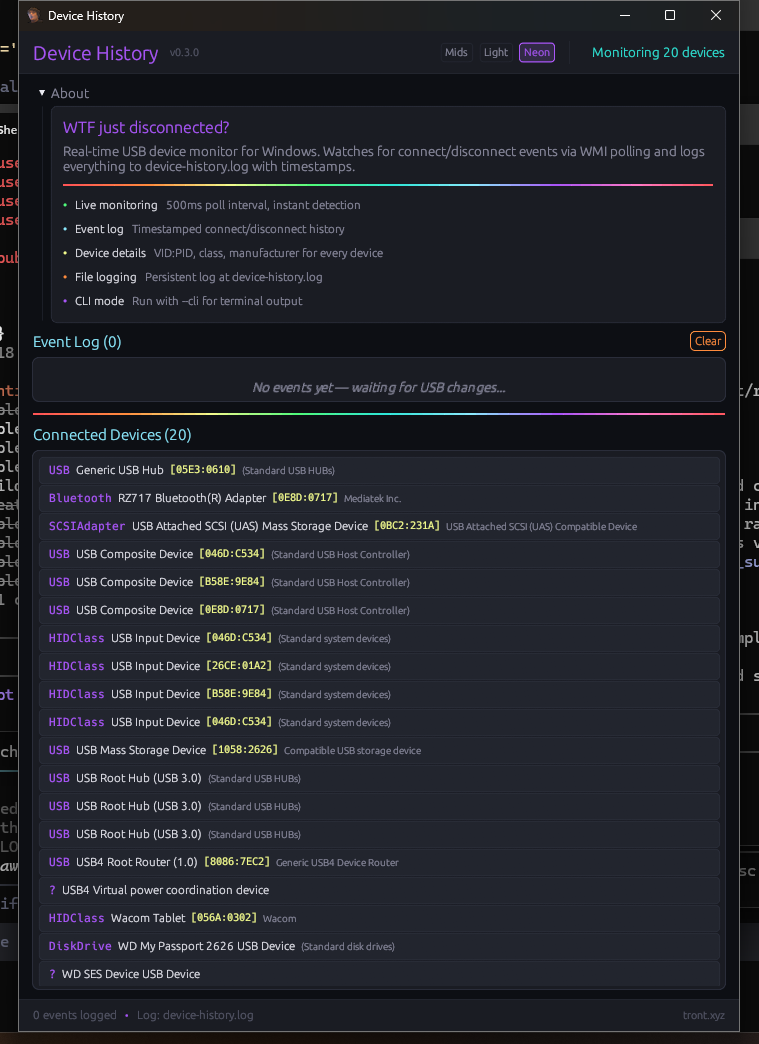
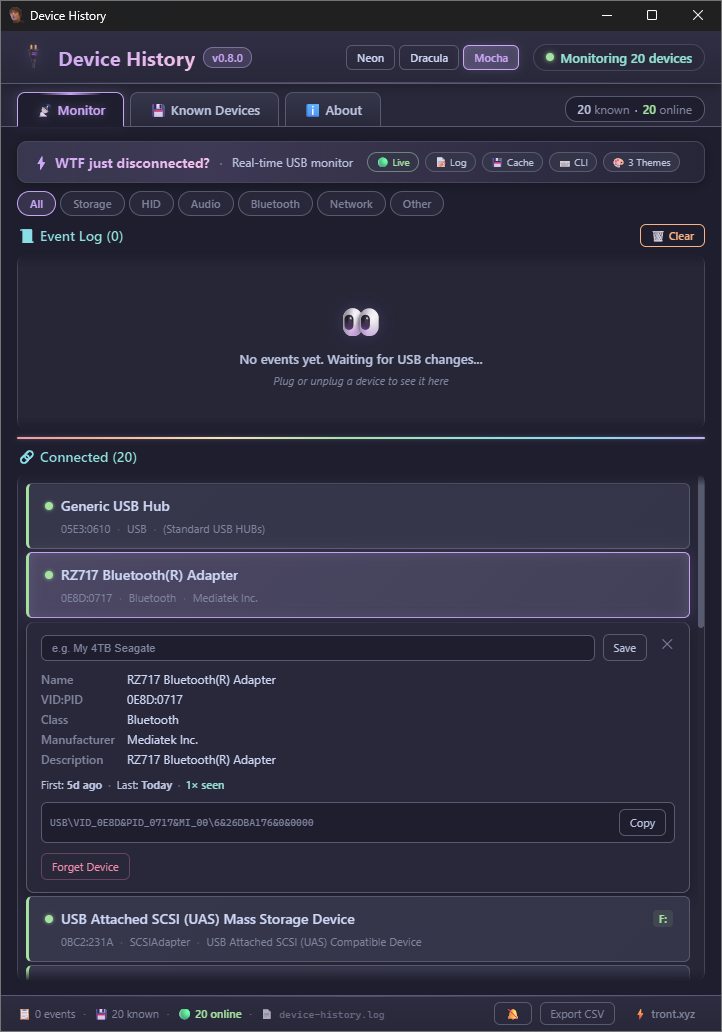
device-history: update landing page for v0.8.2
- Bump all version refs to v0.8.2
- Add 3 screenshots (monitor, known devices, about)
- Add feature cards (storage, CSV, sound, keyboard shortcuts, portable)
- Update tech chips (Tauri v2, Svelte 5, TypeScript, Vite)
- Update theme names (Neon/Dracula/Catppuccin Mocha)
- Update install instructions to npm/tauri

diff --git a/device-history/index.html b/device-history/index.html
@@ -12,16 +12,16 @@
     <meta charset="UTF-8">
     <meta name="viewport" content="width=device-width, initial-scale=1.0">
     <title>Device History - WTF Just Disconnected?</title>
-    <meta name="description" content="Real-time USB device monitor for Windows. Premium glassmorphism UI with 5 themes, animated capacity bars, device database, and CLI mode. Built with Rust + Tauri v2 + Svelte 5.">
+    <meta name="description" content="Real-time USB device monitor for Windows. Premium glassmorphism UI with 3 themes, animated capacity bars, device database, and CLI mode. Built with Rust + Tauri v2 + Svelte 5.">
     <meta property="og:type" content="website">
     <meta property="og:title" content="Device History - WTF Just Disconnected?">
-    <meta property="og:description" content="Real-time USB device monitor for Windows. Premium glassmorphism UI with 5 themes, animated capacity bars, device database, and CLI mode. Built with Rust + Tauri v2 + Svelte 5.">
+    <meta property="og:description" content="Real-time USB device monitor for Windows. Premium glassmorphism UI with 3 themes, animated capacity bars, device database, and CLI mode. Built with Rust + Tauri v2 + Svelte 5.">
     <meta property="og:url" content="https://tront.xyz/device-history/">
     <meta property="og:site_name" content="Device History">
     <meta property="og:image" content="https://tront.xyz/device-history/screenshot.png">
     <meta name="twitter:card" content="summary_large_image">
     <meta name="twitter:title" content="Device History - WTF Just Disconnected?">
-    <meta name="twitter:description" content="Real-time USB device monitor for Windows. Premium glassmorphism UI with 5 themes, animated capacity bars, device database, and CLI mode. Built with Rust + Tauri v2 + Svelte 5.">
+    <meta name="twitter:description" content="Real-time USB device monitor for Windows. Premium glassmorphism UI with 3 themes, animated capacity bars, device database, and CLI mode. Built with Rust + Tauri v2 + Svelte 5.">
     <meta name="twitter:image" content="https://tront.xyz/device-history/screenshot.png">
     <script type="application/ld+json">{"@context":"https://schema.org","@type":"SoftwareApplication","name":"Device History","description":"Real-time USB device monitor for Windows with neon-themed GUI. Detects connect/disconnect events via WMI polling and logs everything.","url":"https://tront.xyz/device-history/","applicationCategory":"UtilitiesApplication","operatingSystem":"Windows","author":{"@type":"Person","name":"Trent Sterling","url":"https://tront.xyz"}}</script>
     <link rel="icon" href="/favicon.png" type="image/png">
@@ -334,27 +334,34 @@
     <section class="hero">
         <h1>Device History</h1>
         <p class="tagline">WTF just disconnected? Real-time USB device monitor for Windows with a neon-themed GUI, event logging, and CLI mode.</p>
-        <span class="version-tag">v0.8.0 &mdash; Tauri v2 + Svelte 5 rewrite</span>
+        <span class="version-tag">v0.8.2 - Tauri v2 + Svelte 5 rewrite</span>
         <div class="buttons">
-            <a href="https://github.com/TrentSterling/device-history/releases/download/v0.8.0/Device-History-0.8.0-setup.exe" class="btn btn-primary" style="background:rgba(168,85,247,0.15);border-color:rgba(168,85,247,0.4);color:#d4b0ff;font-size:1.05rem;">&#11015; Download Installer (2.4MB)</a>
-            <a href="https://github.com/TrentSterling/device-history/releases/download/v0.8.0/device-history.exe" class="btn btn-primary">&#11015; Portable .exe</a>
+            <a href="https://github.com/TrentSterling/device-history/releases/download/v0.8.2/device-history.exe" class="btn btn-primary" style="background:rgba(168,85,247,0.15);border-color:rgba(168,85,247,0.4);color:#d4b0ff;font-size:1.05rem;">&#11015; Download Portable .exe</a>
             <a href="https://github.com/TrentSterling/device-history" class="btn btn-primary">GitHub</a>
             <a href="/blog/posts/device-history/" class="btn btn-primary">Blog Post</a>
         </div>
-        <p style="margin-top:12px;color:var(--text-dim);font-size:0.85rem;">Complete Tauri v2 + Svelte 5 rewrite. Glassmorphism UI, 5 themes, full emoji support.</p>
+        <p style="margin-top:12px;color:var(--text-dim);font-size:0.85rem;">Complete Tauri v2 + Svelte 5 rewrite. Glassmorphism UI, 3 themes, full emoji support.</p>
     </section>
 
-    <!-- SCREENSHOT -->
+    <!-- SCREENSHOTS -->
     <div class="screenshot-frame" onclick="openLightbox(this.querySelector('img'))">
-        <img src="screenshot.png" alt="Device History v0.8.0 - Glassmorphism USB monitor with 5 themes">
+        <img src="screenshot.png" alt="Device History v0.8.2 - Monitor tab with live device tracking">
+    </div>
+    <div style="display:grid;grid-template-columns:1fr 1fr;gap:16px;max-width:720px;margin:0 auto 32px;">
+        <div class="screenshot-frame" style="margin:0;" onclick="openLightbox(this.querySelector('img'))">
+            <img src="screenshot-known.png" alt="Device History - Known Devices tab with storage info">
+        </div>
+        <div class="screenshot-frame" style="margin:0;" onclick="openLightbox(this.querySelector('img'))">
+            <img src="screenshot-about.png" alt="Device History - About page">
+        </div>
     </div>
 
     <!-- STATS -->
     <div class="stats-bar">
         <div class="stat"><span class="num">500ms</span><span class="lbl">Poll Rate</span></div>
-        <div class="stat"><span class="num">5</span><span class="lbl">Themes</span></div>
-        <div class="stat"><span class="num">2.4MB</span><span class="lbl">Installer</span></div>
-        <div class="stat"><span class="num">v0.8.0</span><span class="lbl">Version</span></div>
+        <div class="stat"><span class="num">3</span><span class="lbl">Themes</span></div>
+        <div class="stat"><span class="num">~7MB</span><span class="lbl">Binary Size</span></div>
+        <div class="stat"><span class="num">v0.8.2</span><span class="lbl">Version</span></div>
     </div>
 
     <!-- FEATURES -->
@@ -371,8 +378,8 @@
                 <p>Color-coded cards with left accent bars. Green for connect, red for disconnect. Timestamp, device name, VID:PID, class, manufacturer.</p>
             </div>
             <div class="feature-card">
-                <h3>5 Premium Themes</h3>
-                <p>Neon, Catppuccin Mocha, Dracula, Nord, and Solarized Dark. Smooth 300ms transition between them. Glassmorphism panels with backdrop blur.</p>
+                <h3>3 Premium Themes</h3>
+                <p>Neon, Dracula, and Catppuccin Mocha. Smooth 300ms transitions. Glassmorphism panels with backdrop blur.</p>
             </div>
             <div class="feature-card">
                 <h3>Known Devices Database</h3>
@@ -407,8 +414,28 @@
                 <p>Filter devices and events by name, ID, or class. Sort by any column. Find what you're looking for in a list of 50+ USB devices.</p>
             </div>
             <div class="feature-card">
+                <h3>Storage Details</h3>
+                <p>Capacity bars, drive letters, volume names, model, serial number, firmware version, and interface type for every disk drive. See exactly how full your drives are.</p>
+            </div>
+            <div class="feature-card">
+                <h3>CSV Export</h3>
+                <p>Export your entire event log as a CSV file. Useful for tracking patterns, sharing with IT, or feeding into other tools.</p>
+            </div>
+            <div class="feature-card">
+                <h3>Sound Notifications</h3>
+                <p>Optional audio beep on connect/disconnect events. Hear what's happening even when the window is minimized to tray.</p>
+            </div>
+            <div class="feature-card">
                 <h3>Update Checker</h3>
                 <p>Silently checks GitHub for new releases on startup. If a newer version exists, a clickable banner appears in the header.</p>
+            </div>
+            <div class="feature-card">
+                <h3>Keyboard Shortcuts</h3>
+                <p>Escape to close detail panels, 1/2/3 to switch between Monitor, Known Devices, and About tabs. Fast navigation without the mouse.</p>
+            </div>
+            <div class="feature-card">
+                <h3>Portable</h3>
+                <p>Single .exe, ~7 MB. No installer, no setup, no runtime dependencies. Download it, run it, done. Runs on any modern Windows machine.</p>
             </div>
         </div>
     </section>
@@ -441,30 +468,26 @@
             <span class="chip">Rust</span>
             <span class="chip">Tauri v2</span>
             <span class="chip">Svelte 5</span>
+            <span class="chip">TypeScript</span>
+            <span class="chip">Vite</span>
             <span class="chip">WMI</span>
-            <span class="chip">CSS Glassmorphism</span>
-            <span class="chip">parking_lot</span>
+            <span class="chip">Glassmorphism</span>
         </div>
     </section>
 
     <!-- INSTALL -->
     <section class="section" id="install">
         <h2>Download &amp; Install</h2>
-        <div class="install-options" style="grid-template-columns:1fr 1fr 1fr;">
+        <div class="install-options" style="grid-template-columns:1fr 1fr;">
             <div class="install-card" style="border-color:rgba(168,85,247,0.3);">
                 <h3 style="color:var(--accent);">Download .exe</h3>
-                <a href="https://github.com/TrentSterling/device-history/releases/download/v0.8.0/Device-History-0.8.0-setup.exe" class="btn btn-primary" style="display:block;text-align:center;background:rgba(168,85,247,0.1);border-color:rgba(168,85,247,0.3);color:#d4b0ff;margin-bottom:4px;">&#11015; Installer (2.4 MB)</a>
-                <p>2.4 MB NSIS installer. Also available: <a href="https://github.com/TrentSterling/device-history/releases/download/v0.8.0/device-history.exe">Portable .exe (6.2 MB)</a> or <a href="https://github.com/TrentSterling/device-history/releases/download/v0.8.0/Device-History-0.8.0.msi">MSI (3.3 MB)</a></p>
-            </div>
-            <div class="install-card">
-                <h3>cargo install</h3>
-                <code>cargo install --git https://github.com/TrentSterling/device-history</code>
-                <p>Requires Rust toolchain. Builds from source and installs to your cargo bin directory.</p>
+                <a href="https://github.com/TrentSterling/device-history/releases/download/v0.8.2/device-history.exe" class="btn btn-primary" style="display:block;text-align:center;background:rgba(168,85,247,0.1);border-color:rgba(168,85,247,0.3);color:#d4b0ff;margin-bottom:4px;">&#11015; Portable .exe (~7 MB)</a>
+                <p>Standalone binary. No installer needed, just run it. Windows only.</p>
             </div>
             <div class="install-card">
                 <h3>Build from source</h3>
-                <code>git clone ...device-history<br>cd device-history<br>cargo build --release</code>
-                <p>Binary at target/release/device-history.exe.</p>
+                <code>git clone ...device-history<br>cd device-history<br>npm install<br>npx tauri build</code>
+                <p>Requires Rust toolchain + Node.js. Builds installer and portable .exe.</p>
             </div>
         </div>
     </section>
